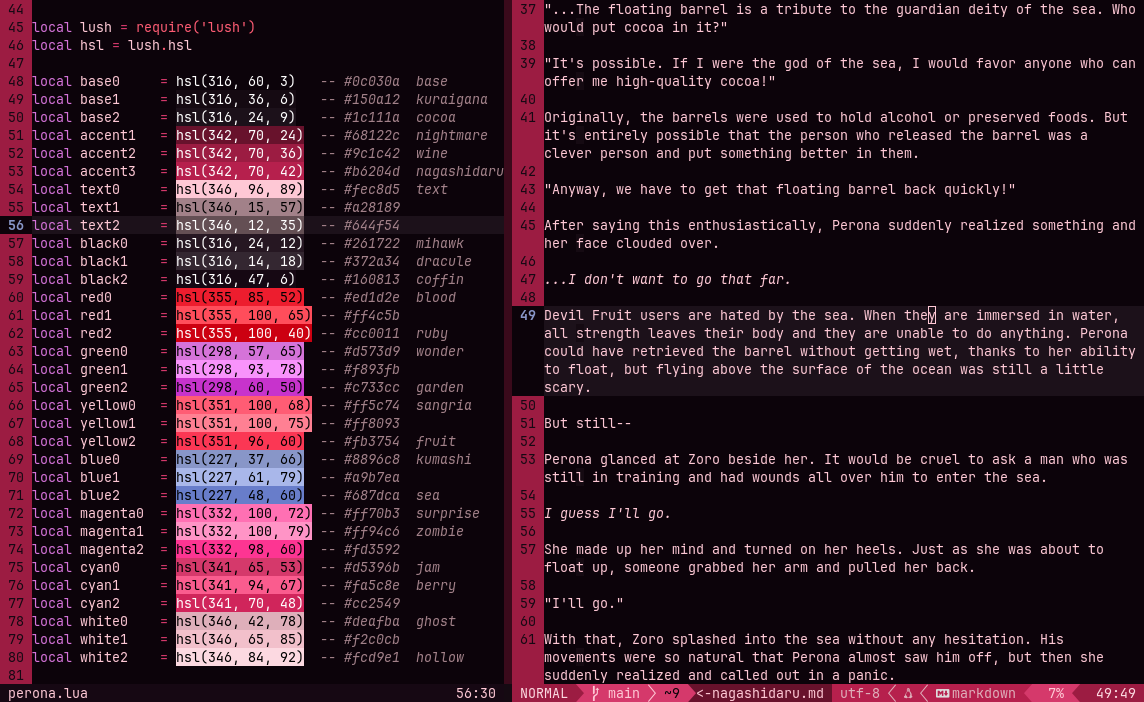
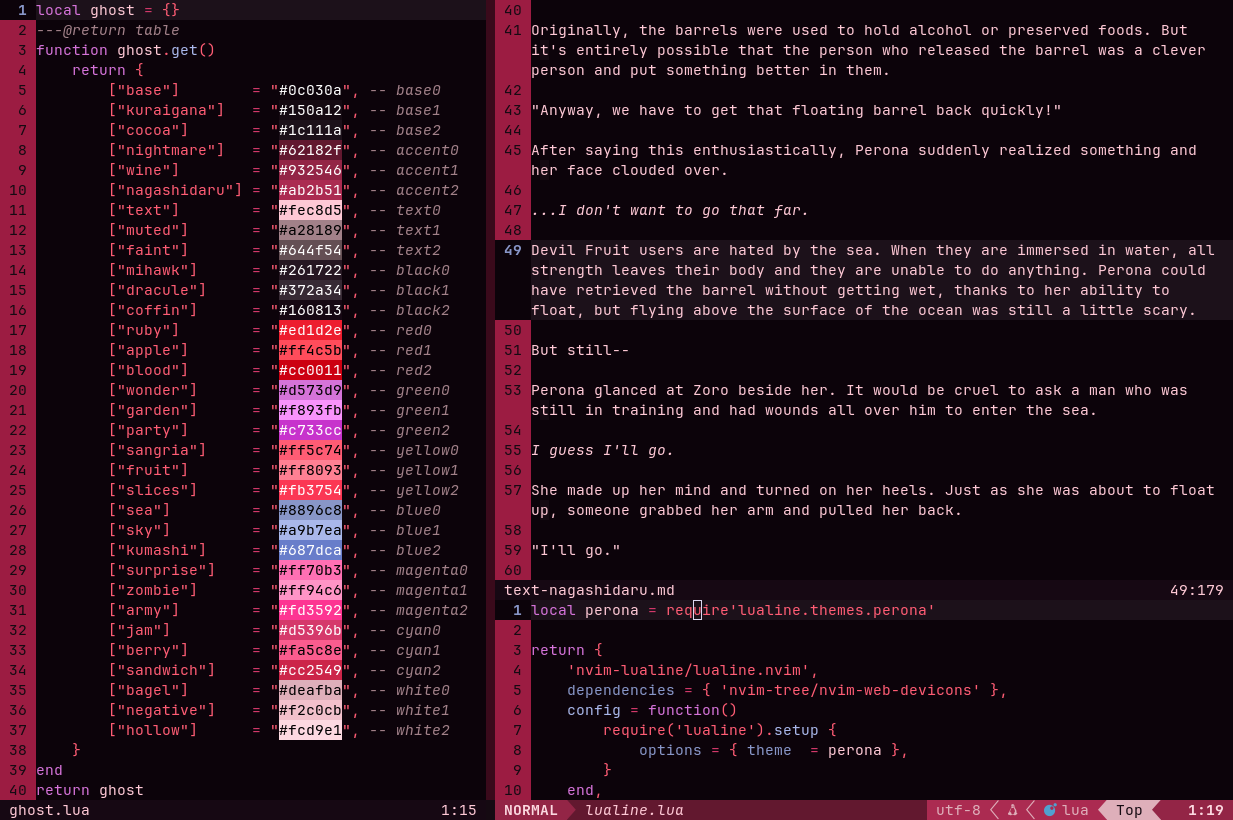
update lualine

diff --git a/README.md b/README.md
@@ -10,7 +10,7 @@ a colorscheme for neovim inspired by ghost princess perona from *one piece*. bui
 ## palette
 
 + base = `#0c030a` `#150a12` `#1c111a`
-+ accent = `#68122c` `#9c1c42` `#b6204d`
++ accent = `#62182f` `#932546` `#ab2b51`
 + text = `#fec8d5` `#a28189` `#644f54`
 + black = `#261722` `#372a34` `#160813`
 + red = `#ed1d2e` `#ff4c5b` `#cc0011`
@@ -22,79 +22,3 @@ a colorscheme for neovim inspired by ghost princess perona from *one piece*. bui
 + white = `#deafba` `#f2c0cb` `#fcd9e1`
 
 ## installation
-
-### neovim
-
-**requires lush.nvim**.
-
-clone this repository:
-
-```bash
-git clone https://codeberg.org/spica/perona.nvim.git
-```
-
-install lush.nvim. i use lazy and configure `lush.lua` like this:
-
-```lua
-return {
-    { dir = '/absolute/path/to/perona.nvim', lazy = true },
-    config = fuction()
-        require 'lush'.setup()
-    end,
-}
-```
-
-### lualine
-
-```bash
-git clone https://codeberg.org/spica/perona.nvim.git
-cd perona.nvim
-cp -r lua ~/.config/nvim
-```
-
-i configure `lualine.lua` like this:
-
-```lua
-local perona = require'lualine.themes.perona'
-
-return {
-    'nvim-lualine/lualine.nvim',
-    dependencies = {'nvim-ree/nvim-web-devicons' },
-    config = function()
-        require('lualine').setup {
-            options = { theme = perona },
-        }
-    end,
-}
-```
-
-## terminals
-
-so far only ported for foot:
-
-```
-[cursor]
-color= 0e030b fec8d5
-
-[colors]
-background= 0e030a
-foreground= fec8d5
-
-regular0=   261722
-regular1=   ed1d2e
-regular2=   d573d9
-regular3=   ff5c74
-regular4=   8896c8
-regular5=   ff70b3
-regular6=   d5396b
-regular7=   deafba
-
-bright0=    342731
-bright1=    ff4c5b
-bright2=    f893fb
-bright3=    ff8093
-bright4=    a9b7ea
-bright5=    ff94c6
-bright6=    fa5c8e
-bright7=    f2c0cb
-```
